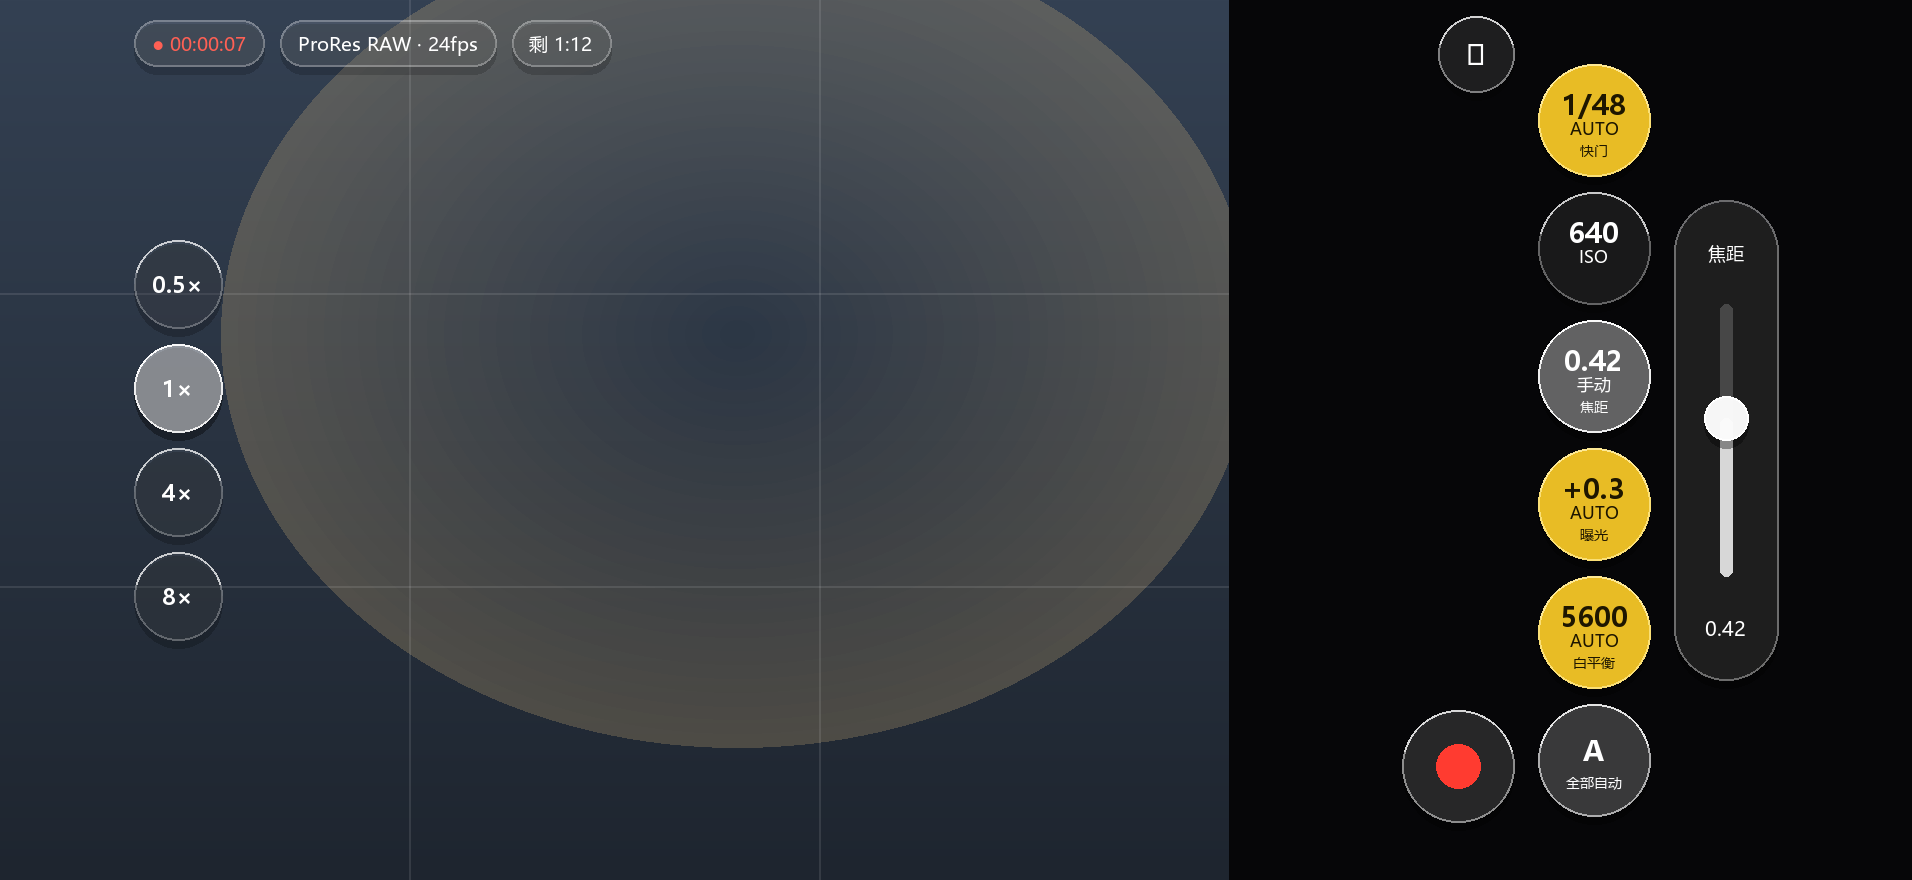
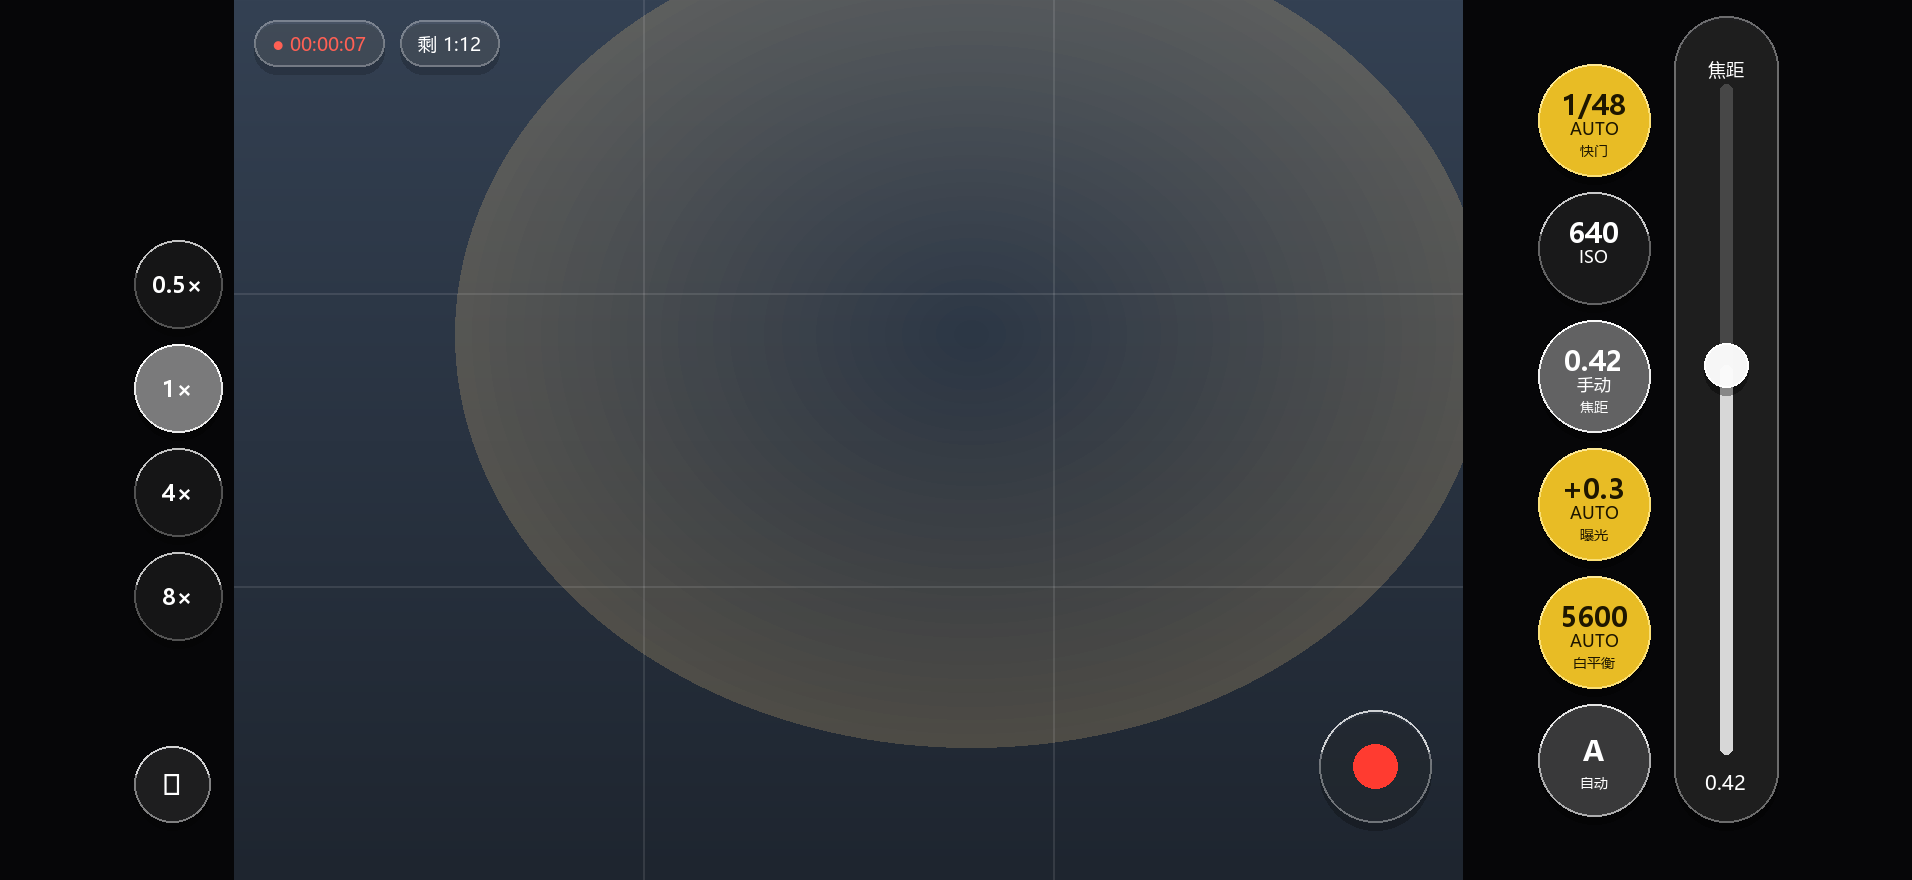
0.5.76: 横屏定稿——画面左移、竖条撑满、A 只作用选中项、命中区补齐
- 焦距列与画面之间的缝 12 → 6，画面左边界 123 → 117。
- 竖条高度改为「屏高 − 上下安全区 − 边距」= 403，竖向滑块行程跟着变长。
- A 钮去掉「全部自动」，只把当前选中参数切回自动；五项一起跳会同时
  改曝光、对焦与白平衡，看不出是哪一项在动。
- 录制键 y 347 → 355，玻璃着色 0.10 → 0.03，只剩细环与红点，不挡构图。
- 补齐命中区：五个参数钮、四个镜头钮、齿轮、A 钮、录制键全部
  contentShape(Circle())。此前命中区只覆盖文字，手指落在圆边会打空。
- 录制键在准备/收尾阶段禁用并降透明，不再点了没反应也没提示。
- 镜头列改居中，系统不报 8× 只有三个钮时不会挤在上边。
- 顶部去掉档位字样，只留录制时间码与剩余时长。

diff --git a/Sources/Landscape/LandscapeLayout.swift b/Sources/Landscape/LandscapeLayout.swift
@@ -10,9 +10,11 @@ import SwiftUI
 /// 1. **取景高度撑满整屏**，宽度按 Open Gate 画幅 1.397 推导，
 ///    绝不为了给控件腾地方而缩高度；
 /// 2. **拖拽条贴最右边**，竖向，全屏只有这一条，跟着选中的参数走；
-/// 3. 焦距切换浮在画面左边缘，「靠画面」而不是另起一列。
+/// 3. **画面左侧要给焦距切换留出整列空间**，镜头钮不压在画面上。
 ///
-/// 约束顺序决定了其余位置：先撑满取景 → 条贴右 → 参数列贴条 → 录制键贴参数列。
+/// 约束顺序决定了其余位置：先留左列 → 取景撑满高度 → 条贴右 → 参数列贴条。
+/// 录制键因此只能浮在画面右下角：左列被镜头占用、右侧被参数列与竖条占满，
+/// 硬要再挤一列就得缩取景高度，与第 1 条冲突。
 /// 与 `_design/render_layout.py` 用的是同一组数字，改动必须两边同步。
 struct LandscapeLayout {
 
@@ -22,10 +24,11 @@ struct LandscapeLayout {
     static let lensSize: CGFloat = 44
     static let lensGap: CGFloat = 8
     static let barWidth: CGFloat = 52
-    static let barHeight: CGFloat = 240
     static let recordSize: CGFloat = 56
     static let gearSize: CGFloat = 38
     static let gap: CGFloat = 12
+    /// 焦距列与画面之间的缝。压到 6 让画面再往左一点，同时不贴到镜头钮。
+    static let lensGapToPreview: CGFloat = 6
     /// Open Gate 画幅：4224 / 3024
     static let aspect: CGFloat = 4224.0 / 3024.0
     /// 控件区至少要留出的宽度占比。取景按画幅撑满高度后若把右侧挤没，
@@ -41,7 +44,22 @@ struct LandscapeLayout {
     let chipsOrigin: CGPoint
 
     init(size: CGSize, insets: EdgeInsets) {
-        // ---- 取景：高度撑满 ----
+        // ---- 焦距列：先占位，画面从它右侧开始 ----
+        let lensHeight = Self.lensSize * 4 + Self.lensGap * 3
+        lensRail = CGRect(
+            x: insets.leading + Self.margin,
+            y: (size.height - lensHeight) / 2,
+            width: Self.lensSize,
+            height: lensHeight
+        )
+        gear = CGRect(
+            x: lensRail.minX,
+            y: size.height - insets.bottom - Self.margin - Self.gearSize,
+            width: Self.gearSize,
+            height: Self.gearSize
+        )
+
+        // ---- 取景：高度撑满，左侧让开焦距列 ----
         var height = size.height
         var width = height * Self.aspect
         let maxWidth = size.width * Self.previewMaxWidthRatio
@@ -49,16 +67,15 @@ struct LandscapeLayout {
             width = maxWidth
             height = width / Self.aspect
         }
-        preview = CGRect(x: 0, y: 0, width: width, height: height)
+        let previewX = lensRail.maxX + Self.lensGapToPreview
+        preview = CGRect(x: previewX, y: 0, width: width, height: height)
 
-        // ---- 拖拽条：贴最右 ----
+        // ---- 拖拽条：贴最右，纵向撑满可用高度 ----
+        // 只有一条，就把它做长：竖向空间越多，同一像素对应越细的调整量。
         let barX = size.width - insets.trailing - Self.margin - Self.barWidth
-        bar = CGRect(
-            x: barX,
-            y: (size.height - Self.barHeight) / 2,
-            width: Self.barWidth,
-            height: Self.barHeight
-        )
+        let barY = insets.top + Self.margin
+        let barHeight = max(160, size.height - insets.top - insets.bottom - Self.margin * 2)
+        bar = CGRect(x: barX, y: barY, width: Self.barWidth, height: barHeight)
 
         // ---- 参数列：贴条的左侧 ----
         let knobX = barX - Self.gap - Self.knobSize
@@ -70,31 +87,16 @@ struct LandscapeLayout {
             height: columnHeight
         )
 
-        // ---- 录制键：贴参数列左侧、靠底 ----
+        // ---- 录制键：画面右下角 ----
+        // 左列给了镜头、右侧给了参数列与竖条，再挤一列就得缩取景高度，
+        // 那与「高度撑满」直接冲突。放到画面右下角是唯一不违背约束的位置。
         record = CGRect(
-            x: knobX - Self.gap - Self.recordSize,
+            x: preview.maxX - Self.margin * 2 - Self.recordSize,
             y: size.height - insets.bottom - Self.margin - Self.recordSize,
             width: Self.recordSize,
             height: Self.recordSize
         )
 
-        // ---- 设置：与录制键同列，靠顶 ----
-        gear = CGRect(
-            x: record.minX,
-            y: insets.top + Self.margin,
-            width: Self.gearSize,
-            height: Self.gearSize
-        )
-
-        // ---- 焦距：浮在画面左边缘 ----
-        let lensHeight = Self.lensSize * 4 + Self.lensGap * 3
-        lensRail = CGRect(
-            x: insets.leading + Self.margin,
-            y: (size.height - lensHeight) / 2,
-            width: Self.lensSize,
-            height: lensHeight
-        )
-
-        chipsOrigin = CGPoint(x: insets.leading + Self.margin, y: insets.top + 10)
+        chipsOrigin = CGPoint(x: preview.minX + 10, y: insets.top + 10)
     }
 }

diff --git a/Sources/Landscape/LandscapeScreen.swift b/Sources/Landscape/LandscapeScreen.swift
@@ -83,7 +83,8 @@ struct LandscapeScreen: View {
                 }
             }
         }
-        .frame(width: layout.lensRail.width, height: layout.lensRail.height, alignment: .top)
+        // 居中而不是顶部对齐：只有三个镜头时（系统不报 8×）不会一堆挤在上边
+        .frame(width: layout.lensRail.width, height: layout.lensRail.height)
         .position(x: layout.lensRail.midX, y: layout.lensRail.midY)
     }
 
@@ -104,19 +105,20 @@ struct LandscapeScreen: View {
                 }
             }
 
-            // 唯一的 A 钮：一次把所有参数交还系统
+            // A 钮：只把**当前选中**的那个参数交还系统，不动其它四项
             Button {
-                setAllAuto()
+                setAuto(selection)
             } label: {
                 VStack(spacing: 1) {
                     Text("A")
                         .font(.system(size: 18, weight: .semibold))
-                    Text("全部自动")
+                    Text("自动")
                         .font(.system(size: 7))
                         .opacity(0.7)
                 }
                 .foregroundStyle(.white)
                 .frame(width: LandscapeLayout.knobSize, height: LandscapeLayout.knobSize)
+                .contentShape(Circle())
                 .liquidGlass(Circle(), tint: .white.opacity(0.14))
             }
             .buttonStyle(.plain)
@@ -140,11 +142,13 @@ struct LandscapeScreen: View {
                 .foregroundStyle(.white.opacity(0.62))
                 .lineLimit(1)
 
+            // 竖向滑块用系统 Slider 旋转 −90°：交互与惯性仍是系统的。
+            // 长度跟着条高走——条撑满屏幕高度，滑块就跟着变长。
             Slider(value: sliderBinding, in: 0...1)
                 .tint(.white)
-                .frame(width: 150)
+                .frame(width: sideBarTrackLength(layout))
                 .rotationEffect(.degrees(-90))
-                .frame(width: 30, height: 150)
+                .frame(width: 30, height: sideBarTrackLength(layout))
                 .disabled(isAuto(selection))
                 .opacity(isAuto(selection) ? 0.4 : 1)
 
@@ -177,9 +181,13 @@ struct LandscapeScreen: View {
                     height: LandscapeLayout.recordSize * (engine.state == .recording ? 0.34 : 0.4)
                 )
                 .frame(width: LandscapeLayout.recordSize, height: LandscapeLayout.recordSize)
-                .liquidGlass(Circle(), tint: .white.opacity(0.10))
+                .contentShape(Circle())
+                // 录制键压在画面上，玻璃越淡越不挡构图
+                .liquidGlass(Circle(), tint: .white.opacity(0.03))
         }
         .buttonStyle(.plain)
+        .disabled(!engine.state.canStart && engine.state != .recording)
+        .opacity(engine.state.isBusy && engine.state != .recording ? 0.45 : 1)
         .position(x: layout.record.midX, y: layout.record.midY)
     }
 
@@ -189,6 +197,7 @@ struct LandscapeScreen: View {
                 .font(.system(size: 15, weight: .medium))
                 .foregroundStyle(.white)
                 .frame(width: layout.gear.width, height: layout.gear.height)
+                .contentShape(Circle())
                 .liquidGlass(Circle(), tint: .white.opacity(0.10))
         }
         .buttonStyle(.plain)
@@ -201,7 +210,6 @@ struct LandscapeScreen: View {
             if engine.state == .recording {
                 chip(timecode(engine.elapsed), tint: .red.opacity(0.9), dot: true)
             }
-            chip("\(engine.tier.displayName) · 24fps", tint: .white.opacity(0.10))
             chip("剩 \(Self.duration(engine.remainingSeconds))", tint: .white.opacity(0.10))
             Spacer(minLength: 0)
         }
@@ -280,12 +288,16 @@ struct LandscapeScreen: View {
         }
     }
 
-    private func setAllAuto() {
-        engine.exposure.mode = .autoBoth
-        engine.exposure.ev = 0
-        exposureManual = false
-        engine.focus.mode = .continuous
-        engine.whiteBalance.mode = .auto
+    /// A 钮只作用于当前选中的参数：已经是自动就不动，手动就切回自动。
+    /// 刻意不做「全部自动」——五个参数一起跳，画面会同时变亮、变焦、变色。
+    private func setAuto(_ parameter: LandscapeParameter) {
+        guard !isAuto(parameter) else { return }
+        toggleAuto(parameter)
+    }
+
+    /// 竖向滑块的长度：条内减去标签、读数与上下留白。
+    private func sideBarTrackLength(_ layout: LandscapeLayout) -> CGFloat {
+        max(120, layout.bar.height - 96)
     }
 
     // MARK: - 拖拽条取值

diff --git a/Sources/Landscape/LandscapeControls.swift b/Sources/Landscape/LandscapeControls.swift
@@ -73,6 +73,9 @@ struct LandscapeKnob: View {
             // 黄色玻璃上必须是深色字，否则对比度不足
             .foregroundStyle(isAuto ? Color.black.opacity(0.86) : Color.white)
             .frame(width: LandscapeLayout.knobSize, height: LandscapeLayout.knobSize)
+            // 命中区必须显式给成整颗圆：命中测试默认走渲染内容，
+            // 只有文字大小的话，手指落在圆边会打空。
+            .contentShape(Circle())
             .liquidGlass(Circle(), tint: tint)
             .overlay {
                 if isSelected {
@@ -102,6 +105,7 @@ struct LandscapeLensButton: View {
                 .minimumScaleFactor(0.7)
                 .foregroundStyle(isAvailable ? Color.white : Color.white.opacity(0.38))
                 .frame(width: LandscapeLayout.lensSize, height: LandscapeLayout.lensSize)
+                .contentShape(Circle())
                 .liquidGlass(
                     Circle(),
                     tint: isActive ? .white.opacity(0.34) : .white.opacity(0.04)

diff --git a/_design/render_layout.py b/_design/render_layout.py
@@ -13,32 +13,37 @@ ASPECT = 4224 / 3024
 
 KNOB, KNOB_GAP = 56, 8
 LENS, LENS_GAP = 44, 8
-BAR_W, BAR_H = 52, 240
+BAR_W = 52
+LGAP = 6
 REC = 56
 GEAR = 38
 GAP = 12
 
 # ---------- 解算 ----------
+# 1) 左侧先给焦距切换留整列
+LENS_COL = (INSET_L + MARGIN, (H - (LENS * 4 + LENS_GAP * 3)) / 2, LENS, LENS * 4 + LENS_GAP * 3)
+GEAR_BOX = (LENS_COL[0], H - INSET_B - MARGIN - GEAR, GEAR, GEAR)
+
+# 2) 取景从焦距列右侧开始，高度撑满
+PREVIEW_X = LENS_COL[0] + LENS + LGAP
 PREVIEW_H = float(H)
 PREVIEW_W = PREVIEW_H * ASPECT
 max_preview_w = W * 0.78
 if PREVIEW_W > max_preview_w:
     PREVIEW_W = max_preview_w
     PREVIEW_H = PREVIEW_W / ASPECT
+PREVIEW = (PREVIEW_X, 0.0, PREVIEW_W, PREVIEW_H)
 
-PREVIEW = (0.0, 0.0, PREVIEW_W, PREVIEW_H)
-
+# 3) 竖条贴最右，参数列贴条左侧
 rail_x = W - INSET_R - MARGIN - BAR_W
-BAR = (rail_x, (H - BAR_H) / 2, BAR_W, BAR_H)
-
+BAR = (rail_x, INSET_T + MARGIN, BAR_W, H - INSET_B - 2 * MARGIN)
 knob_x = rail_x - GAP - KNOB
 KNOB_COL = (knob_x, (H - (KNOB * 6 + KNOB_GAP * 5)) / 2, KNOB, KNOB * 6 + KNOB_GAP * 5)
 
-REC_BOX = (knob_x - GAP - REC, H - INSET_B - MARGIN - REC, REC, REC)
-GEAR_BOX = (knob_x - GAP - GEAR, INSET_T + MARGIN, GEAR, GEAR)
-
-LENS_COL = (INSET_L + MARGIN, (H - (LENS * 4 + LENS_GAP * 3)) / 2, LENS, LENS * 4 + LENS_GAP * 3)
-CHIPS = (INSET_L + MARGIN, INSET_T + 10)
+# 4) 录制键只能浮在画面右下角
+REC_BOX = (PREVIEW_X + PREVIEW_W - 2 * MARGIN - REC,
+           H - INSET_B - MARGIN - REC, REC, REC)
+CHIPS = (PREVIEW_X + 10, INSET_T + 10)
 
 YELLOW = (255, 206, 40, 232)
 YELLOW_RING = (255, 232, 140, 200)
@@ -111,7 +116,7 @@ fd = ImageDraw.Draw(frame, "RGBA")
 for i in (1, 2):
     fd.line([(pw * i / 3, 0), (pw * i / 3, ph)], fill=(255, 255, 255, 26), width=S)
     fd.line([(0, ph * i / 3), (pw, ph * i / 3)], fill=(255, 255, 255, 26), width=S)
-img.paste(frame, (0, 0))
+img.paste(frame, (px(PREVIEW_X), 0))
 d = ImageDraw.Draw(img, "RGBA")
 
 # ---------- 左轨：焦距（浮在画面左侧） ----------
@@ -130,7 +135,7 @@ for label, on in [("0.5×", False), ("1×", True), ("4×", False), ("8×", False
 # ---------- 右轨：参数列 ----------
 params = [("1/48", "AUTO", "快门", "auto"), ("640", "ISO", "", "manual"),
           ("0.42", "手动", "焦距", "sel"), ("+0.3", "AUTO", "曝光", "auto"),
-          ("5600", "AUTO", "白平衡", "auto"), ("A", "全部自动", "", "all")]
+          ("5600", "AUTO", "白平衡", "auto"), ("A", "自动", "", "all")]
 ky = KNOB_COL[1]
 for k, v, cap, state in params:
     cyk, cxk = ky + KNOB / 2, KNOB_COL[0] + KNOB / 2
@@ -144,7 +149,7 @@ for k, v, cap, state in params:
         glass_circle(cxk, cyk, KNOB / 2, tint=(255, 255, 255, 20), ring=(255, 255, 255, 82), sh=60); fg = WHITE
     if state == "all":
         text_at(cxk, cyk - 5, "A", F_KNOB, fg)
-        text_at(cxk, cyk + 11, "全部自动", F_CAP, fg)
+        text_at(cxk, cyk + 11, "自动", F_CAP, fg)
     else:
         text_at(cxk, cyk - 8, k, F_KNOB, fg)
         text_at(cxk, cyk + 4, v, F_VAL, fg if state != "manual" else (255, 255, 255, 205))
@@ -157,12 +162,12 @@ bx, by, bw, bh = BAR
 glass_round(bx, by, bw, bh, bw / 2, tint=(255, 255, 255, 26), ring=(255, 255, 255, 88), sh=90)
 text_at(bx + bw / 2, by + 26, "焦距", F_NAME, (255, 255, 255, 165))
 tx = bx + bw / 2
-ty0, ty1 = by + 52, by + bh - 52
+ty0, ty1 = by + 34, by + bh - 34
 d.rounded_rectangle([px(tx - 3), px(ty0), px(tx + 3), px(ty1)], radius=px(3), fill=(255, 255, 255, 46))
 fy = ty1 - (ty1 - ty0) * 0.58
 d.rounded_rectangle([px(tx - 3), px(fy), px(tx + 3), px(ty1)], radius=px(3), fill=(255, 255, 255, 200))
 glass_circle(tx, fy, 11, tint=(255, 255, 255, 245), ring=(255, 255, 255, 255), sh=95)
-text_at(tx, by + bh - 26, "0.42", F_NUM, WHITE)
+text_at(tx, by + bh - 20, "0.42", F_NUM, WHITE)
 
 # ---------- 录制键 / 设置 ----------
 gx, gy, gw, gh = GEAR_BOX
@@ -170,12 +175,12 @@ glass_circle(gx + gw / 2, gy + gh / 2, gw / 2, tint=(255, 255, 255, 26), ring=(2
 text_at(gx + gw / 2, gy + gh / 2, "⚙", font(14), (255, 255, 255, 235))
 
 rx, ry, rw, rh = REC_BOX
-glass_circle(rx + rw / 2, ry + rh / 2, rw / 2, tint=(255, 255, 255, 36), ring=(255, 255, 255, 120), sh=95)
+glass_circle(rx + rw / 2, ry + rh / 2, rw / 2, tint=(255, 255, 255, 10), ring=(255, 255, 255, 90), sh=60)
 d.ellipse([px(rx + rw / 2 - 11), px(ry + rh / 2 - 11), px(rx + rw / 2 + 11), px(ry + rh / 2 + 11)], fill=(255, 59, 48))
 
 # ---------- 顶部信息：压在画面左上角 ----------
 cx_chip, cy_chip = CHIPS
-for label, fg in [("● 00:00:07", (255, 96, 84)), ("ProRes RAW · 24fps", WHITE), ("剩 1:12", WHITE)]:
+for label, fg in [("● 00:00:07", (255, 96, 84)), ("剩 1:12", WHITE)]:
     wch = d.textlength(label, font=F_CHIP) / S + 18
     glass_round(cx_chip, cy_chip, wch, 23, 11.5, tint=(255, 255, 255, 26), ring=(255, 255, 255, 70), sh=45)
     text_at(cx_chip + wch / 2, cy_chip + 11.5, label, F_CHIP, fg)
@@ -198,7 +203,7 @@ for i in range(len(names)):
     for j in range(i + 1, len(names)):
         a, b = boxes[names[i]], boxes[names[j]]
         hit = not (a[0] + a[2] <= b[0] or b[0] + b[2] <= a[0] or a[1] + a[3] <= b[1] or b[1] + b[3] <= a[1])
-        intentional = {names[i], names[j]} == {"preview", "lens"}
+        intentional = {names[i], names[j]} in ({"preview", "rec"},)
         if hit and not intentional:
             ok = False
         tag = "重叠（设计如此）" if hit and intentional else ("重叠 ✗" if hit else "不重叠 ✓")

diff --git a/ISSUES.md b/ISSUES.md
@@ -399,3 +399,24 @@ setFocusModeLocked / AVAssetWriter / MovieRecorder / startRunning / stopRunning`
   「靠画面」只能以浮层形式实现。
 
 几何自检：取景高度 = 440（撑满✓）；六块区域两两不重叠（取景与焦距轨的重叠是设计意图）。
+
+### 11.7 定稿调整（0.5.76）
+
+按实机评审意见改了六处：
+
+| 意见 | 处理 |
+|---|---|
+| 画面再往左一点 | 镜头列与画面之间的缝 12 → 6，画面左边界 123 → 117 |
+| 条子撑满高度 | 竖条高度由固定 240 改为「屏高 − 上下安全区 − 边距」= 403，竖向滑块行程跟着变长 |
+| A 只调当前选中参数 | 去掉「全部自动」，改成只把选中项切回自动（刻意不做全部自动：五项一起跳，画面会同时变亮变焦变色） |
+| 画面左边留空间给切镜头 | 焦距列先占位，画面从 117 起，镜头钮不压画面 |
+| 录制键略往下、更透明 | y 347 → 355；玻璃着色 0.10 → 0.03，只剩细环与红点 |
+| 每个按键可按且有内容 | 见下 |
+
+**命中区是真实缺陷**：圆钮的命中区此前只覆盖文字那一小块，手指落在圆边会打空。
+已给五个参数钮、四个镜头钮、齿轮、A 钮、录制键全部补 `contentShape(Circle())`。
+
+其它顺手修的：
+- 录制键在准备/收尾阶段禁用并降透明，不再是「点了没反应也不提示」。
+- 镜头列改居中，系统不报 8× 只有三个钮时不会挤在上边。
+- 顶部去掉档位字样，只留录制时间码与剩余时长。
